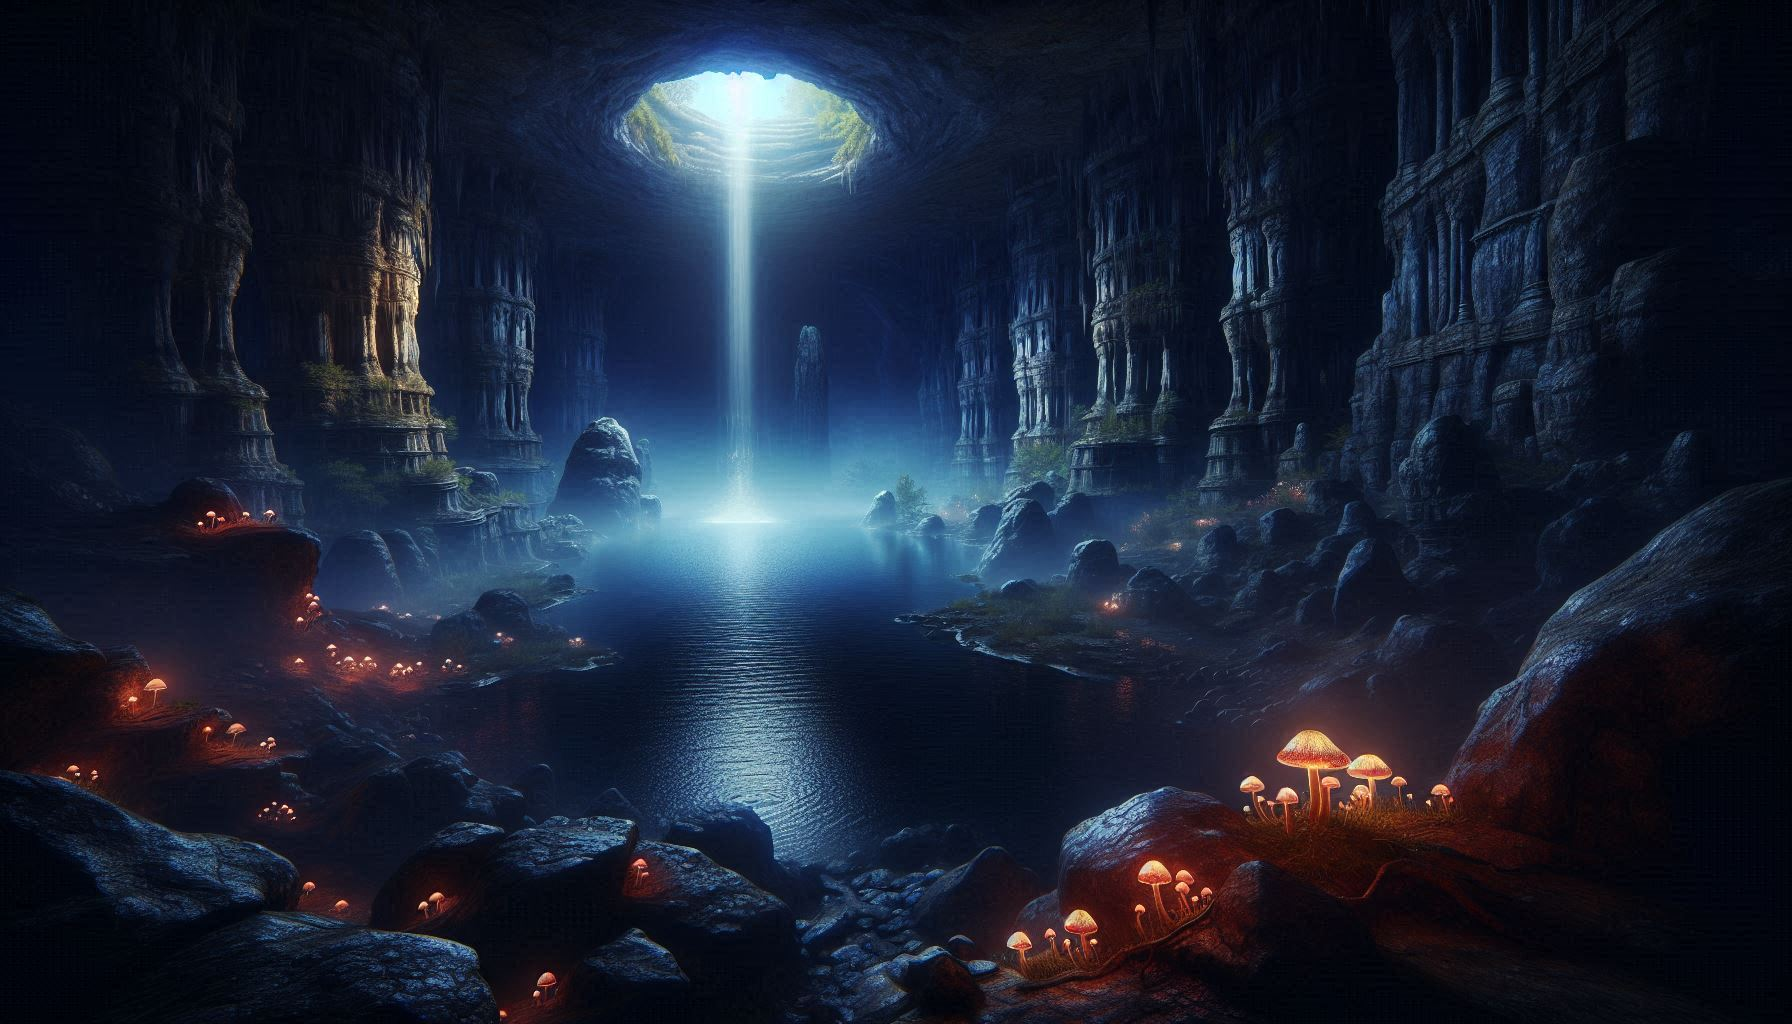
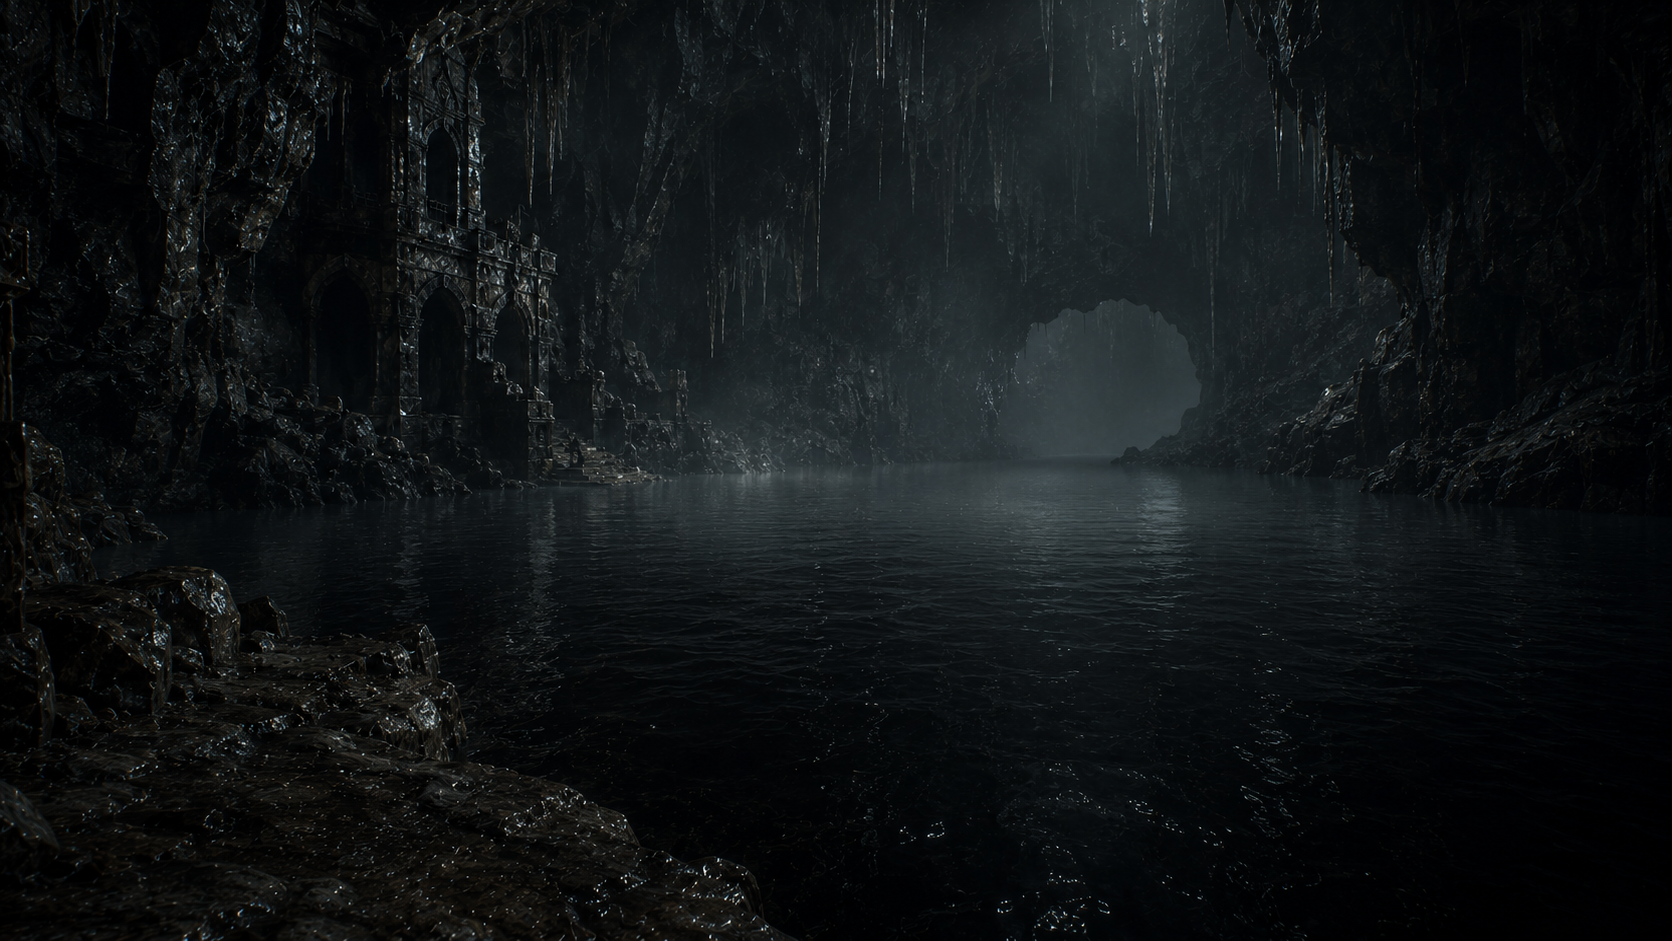
connesso treeless opening

diff --git a/scripts/parser-tests.js b/scripts/parser-tests.js
@@ -4756,6 +4756,41 @@ const gameCases = [
     ],
   },
   {
+    name: "outside goblins gate now leads east into the treeless opening",
+    setup(game) {
+      game.currentRoom = "outside_goblins_gate";
+      game.player.position = "outside_goblins_gate";
+    },
+    drive(game) {
+      game.execute("east");
+      game.print(`Room after gate exit: ${game.currentRoom}`);
+    },
+    expectedIncluded: [
+      "Room after gate exit: treeless_opening",
+    ],
+  },
+  {
+    name: "going east from outside goblins gate can trigger the warg escape in normal play",
+    setup(game) {
+      game.currentRoom = "outside_goblins_gate";
+      game.player.position = "outside_goblins_gate";
+      game.gollumState = game.createGollumState();
+      game.gollumState.met = true;
+      game.gollumState.pocketQuestionAsked = true;
+      game.gollumState.escaped = true;
+    },
+    drive(game) {
+      game.execute("east");
+      game.print(`Warg escape started: ${game.flags.warg_escape_started ? "yes" : "no"}`);
+      game.print(`Current room after trigger: ${game.currentRoom}`);
+    },
+    expectedIncluded: [
+      "Bursting out from the goblin gate at last, you find Gandalf and the dwarves hard pressed in the open below the mountain.",
+      "Warg escape started: yes",
+      "Current room after trigger: treeless_opening",
+    ],
+  },
+  {
     name: "reaching the open ground after gollum starts the warg escape scene",
     setup(game) {
       game.currentRoom = "treeless_opening";
@@ -5743,7 +5778,7 @@ const gameCases = [
       game.print(`Lower halls absent-bard autoplay command: ${command || "none"}`);
     },
     expectedIncluded: [
-      "Lower halls absent-bard autoplay command: ask smaug about treasure",
+      "Lower halls absent-bard autoplay command: wear ring",
     ],
     notExpectedIncluded: [
       "Lower halls absent-bard autoplay command: say to bard \"shoot dragon\"",
@@ -5874,7 +5909,7 @@ const gameCases = [
       "Arrow with Bard: yes",
       "Dragon alive: yes",
       "Strength after Beorn: 6",
-      "Autoplay next with Smaug: ask smaug about treasure",
+      "Autoplay next with Smaug: wear ring",
     ],
   },
   {
@@ -6022,7 +6057,7 @@ const gameCases = [
       game.print(`Autoplay before weak-spot knowledge: ${game.nextAutoplayCommand()}`);
     },
     expectedIncluded: [
-      "Autoplay before weak-spot knowledge: ask smaug about treasure",
+      "Autoplay before weak-spot knowledge: wear ring",
     ],
     notExpectedIncluded: [
       "Autoplay before weak-spot knowledge: say to bard \"shoot dragon\"",
@@ -8158,6 +8193,29 @@ const gameCases = [
       "River death choice: death",
       "River death image: bilbo_black_river_death.png",
       "Type 'load' to open your safe moments in West Bank, or 'restart' to begin the tale again.",
+    ],
+  },
+  {
+    name: "bare swim on the west bank uses the river special action instead of the standard fallback",
+    setup(game) {
+      game.currentRoom = "west_bank";
+      game.player.position = "west_bank";
+    },
+    drive(game) {
+      game.execute("swim");
+      game.print(`Bare swim autosave room: ${game.autosaveMeta?.roomId || "none"}`);
+      game.print(`Bare swim death choice: ${game.pendingEndgameChoice || "none"}`);
+      game.print(`Bare swim death image: ${game.temporaryImage?.file || "none"}`);
+    },
+    expectedIncluded: [
+      "You swim in the river.",
+      "The river takes you at once, spinning you among the rocks before any hand can save you.",
+      "Bare swim autosave room: west_bank",
+      "Bare swim death choice: death",
+      "Bare swim death image: bilbo_black_river_death.png",
+    ],
+    notExpectedIncluded: [
+      "there is no safe water to swim here",
     ],
   },
   {

diff --git a/game.js b/game.js
@@ -9776,6 +9776,9 @@
       }
 
       if (game.currentRoom === "lower_halls" && game.liveDragon()) {
+        if (!game.smaugWeakSpotKnown() && game.player.noticeable !== false && this.autoplayHas("golden ring")) {
+          return "wear ring";
+        }
         if (!game.smaugWeakSpotKnown()) return "ask smaug about treasure";
         if (
           game.flags.bardreadiedarrow
@@ -15039,6 +15042,10 @@
         }
       }
       const text = normalize(objectName);
+      if (!text) {
+        const impliedTarget = this.impliedPhysicalActionSpecialTarget(verb);
+        if (impliedTarget && this.trySpecialAction(verb, impliedTarget)) return;
+      }
       const command = [verb, text].filter(Boolean).join(" ");
       const response = this.standardResponse(command);
       if (response) return this.print(response);
@@ -15063,6 +15070,23 @@
         wake: `${subject} ${conjugated}${target || " up"}, already alert.`,
       }[verb] || `${subject} ${conjugated}${target}, but nothing happens.`;
       this.print(generic);
+    }
+
+    impliedPhysicalActionSpecialTarget(verb) {
+      const implicitlyTargetedVerbs = new Set(["swim"]);
+      if (!implicitlyTargetedVerbs.has(verb)) return "";
+      const candidates = this.data.specialActions.filter((action) => {
+        if (action.verb !== verb) return false;
+        if (action.location && action.location !== this.room().name) return false;
+        if (action.special_char && !matches(this.player.name, normalize(action.special_char))) return false;
+        if (action.obj1) return false;
+        const target = normalize(String(action.obj2 || "").replace(/^\*/, ""));
+        if (!target) return false;
+        const visible = this.visibleSearch(target, { includeInventory: false })?.item;
+        return Boolean(visible && !visible.portable);
+      });
+      if (candidates.length !== 1) return "";
+      return candidates[0].obj2 || "";
     }
 
     physicalActionTarget(verb, text) {

diff --git a/assets/game-data.js b/assets/game-data.js
@@ -3339,6 +3339,13 @@ window.HOBBIT_DATA = {
       "distance": 1
     },
     {
+      "from": "outside_goblins_gate",
+      "direction": "east",
+      "to": "treeless_opening",
+      "door": null,
+      "distance": 1
+    },
+    {
       "from": "treeless_opening",
       "direction": "east",
       "to": "beorns_house",